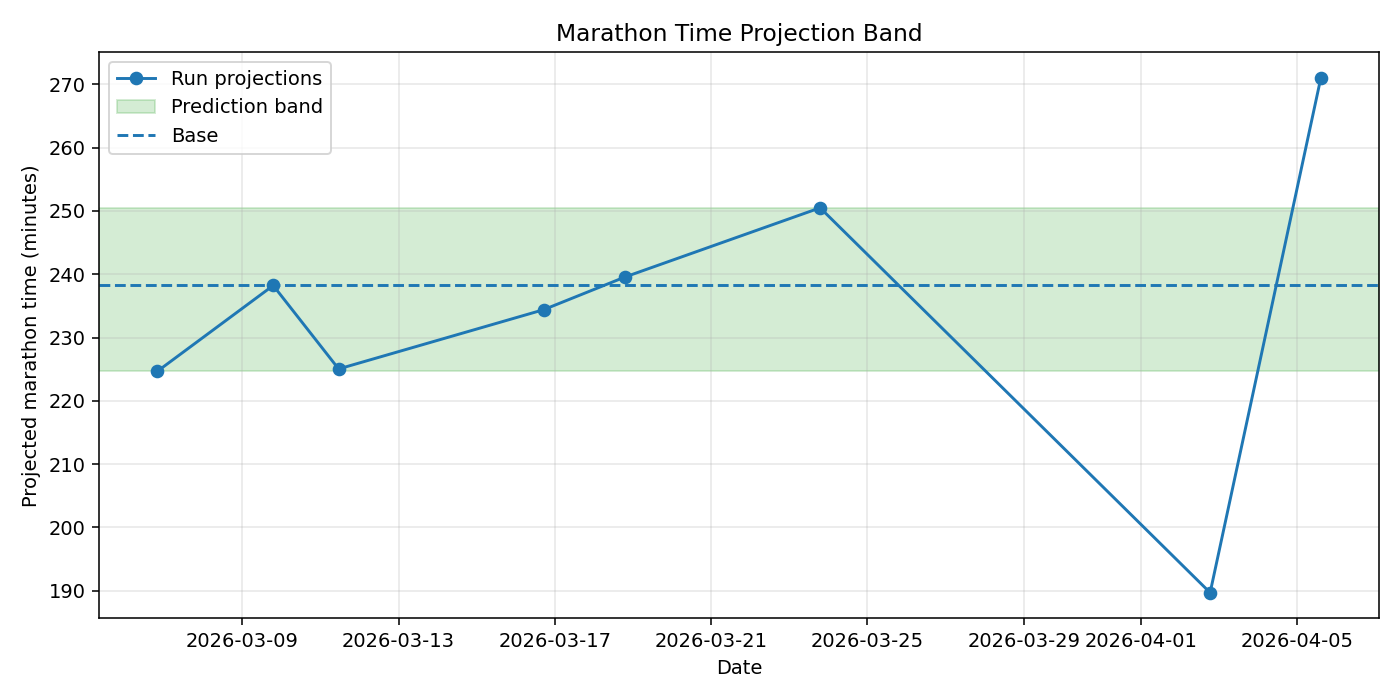
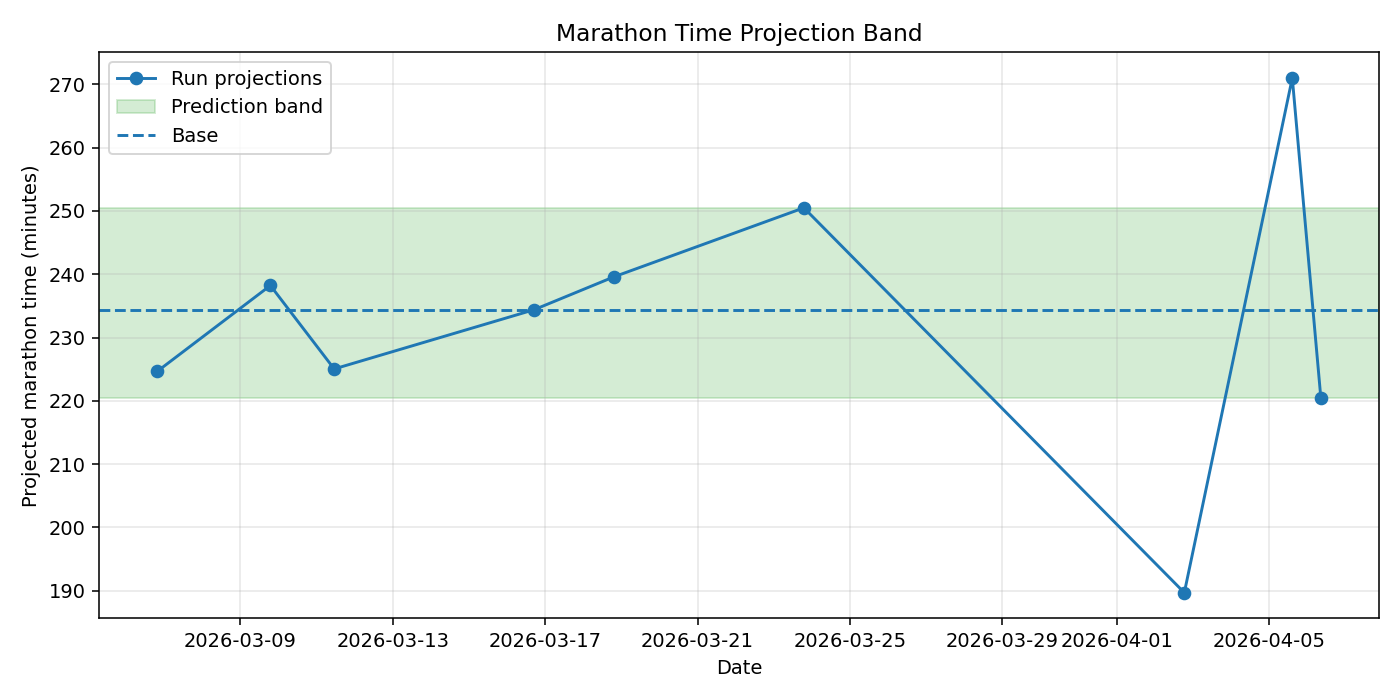
chore: update dashboard site (2026-04-07 10:06)

diff --git a/docs/data/report.md b/docs/data/report.md
@@ -1,5 +1,5 @@
 # Plan-aware Hybrid Marathon Analysis
-Window: 2026-02-01 -> 2026-04-06
+Window: 2026-02-01 -> 2026-04-07
 
 ## This Week
 - Plan week: 1.0
@@ -12,11 +12,11 @@ Window: 2026-02-01 -> 2026-04-06
 - Plan compliance score: 72.8
 
 ## Running Progression
-- Rolling 7d running km: 19.9872
-- Rolling 28d running km: 57.974000000000004
-- Run frequency last 7/14/28: 2/2/7
+- Rolling 7d running km: 29.998
+- Rolling 28d running km: 67.98479999999999
+- Run frequency last 7/14/28: 3/3/8
 - Easy pace trend (negative faster): 0.14840499539921784
-- Pace/HR efficiency trend: -0.0005695525775211873
+- Pace/HR efficiency trend: -0.00045543671703953797
 
 ## Durability
 - Consecutive weeks with 2+ runs: 1
@@ -29,8 +29,8 @@ Window: 2026-02-01 -> 2026-04-06
 ## Football Interference
 - Status: ok
 - Next-day pace delta: None
-- 48h pace delta: 0.033260498358178424
-- 72h pace delta: 0.05160130115490106
+- 48h pace delta: 0.13361541118223327
+- 72h pace delta: 0.1519562139789559
 
 ## Predictions
 - Next-week volume completion probability: 0.71
@@ -45,16 +45,16 @@ Window: 2026-02-01 -> 2026-04-06
 - Marathon readiness: strong
 
 ## Marathon Estimate
-- Fitness-based: 03:58:13
-- Durability-adjusted: 04:22:53
-- Realistic range: 03:44:39 to 04:10:30
+- Fitness-based: 03:54:23
+- Durability-adjusted: 04:19:03
+- Realistic range: 03:40:28 to 04:10:30
 - Confidence score: 98.0/100
 
 ## Pace Recommendations
 - Easy: 5.21-5.56 min/km
 - Steady: 4.86-5.06 min/km
-- Marathon pace: 5.75-5.90 min/km
-- Threshold: 5.45-5.60 min/km
+- Marathon pace: 5.65-5.80 min/km
+- Threshold: 5.35-5.50 min/km
 
 ## Confidence Notes
 - Confidence is stable: recent running and football data coverage are adequate.
